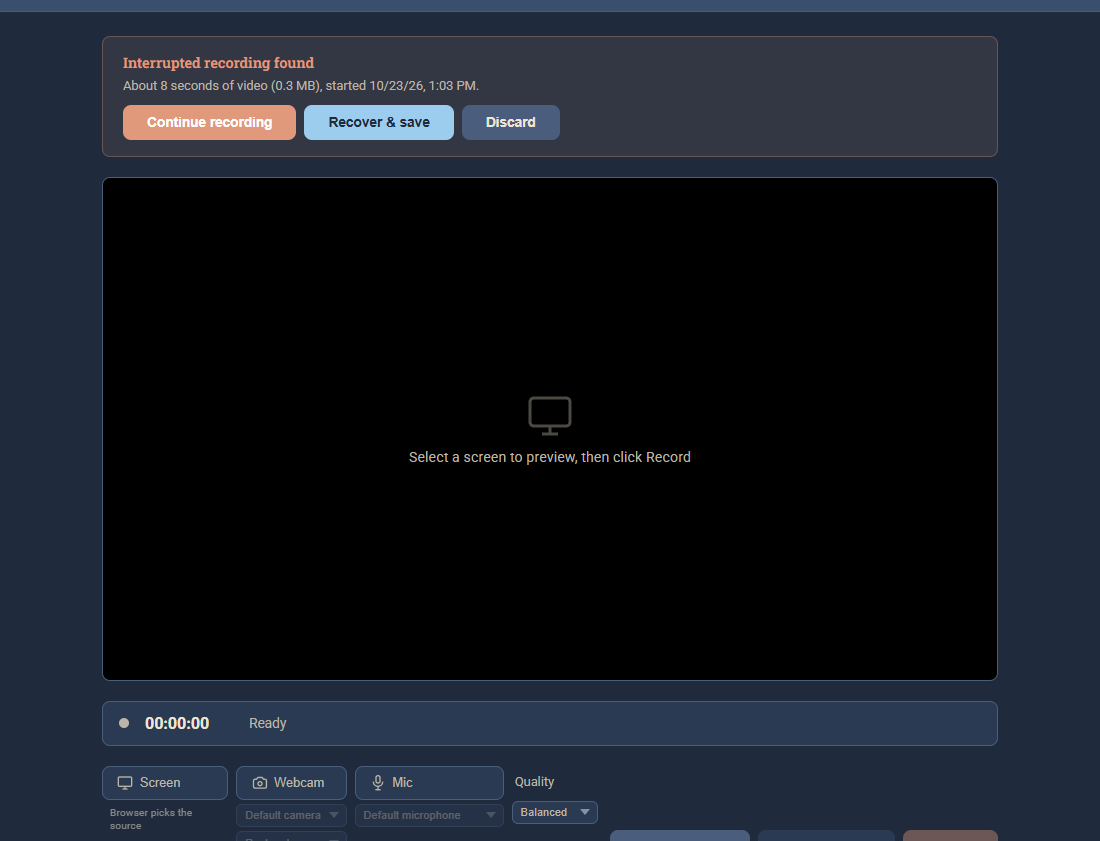
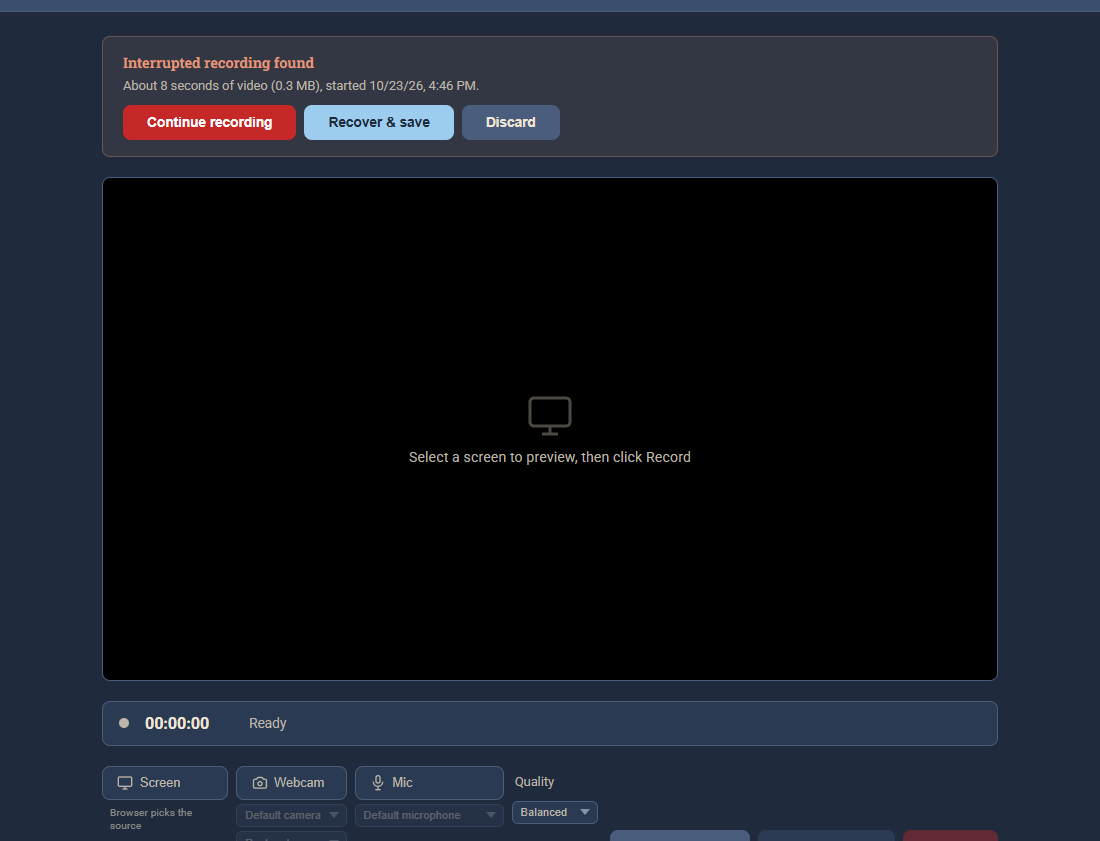
feat (v1.40, #43 stage 2): Replace a part - record into its position, Cancel before Record, Undo replacement on the review page; Record red

Changed region(s): [[0.0927, 0.1237, 0.2782, 0.1855], [0.8036, 0.9893, 0.9273, 1.0]]

diff --git a/index.html b/index.html
@@ -31,6 +31,11 @@
     --green: #9CCDEE;         /* Sky: on, selected, save */
     --green-dim: #6F84A3;     /* Light slate: Sky borders */
     --yellow: #E0997A;        /* paused / kept: terracotta on dark */
+    /* Record red (owner, 2026-10-23): the one colour outside the brand palette,
+       because red = record is a convention people already know. Parchment/white
+       text on it is 5.3:1. Used for Record, Resume recording and the live dot only. */
+    --record: #C62828;
+    --record-hover: #D93025;
     --radius: 8px;
   }
 
@@ -169,7 +174,7 @@
   }
 
   .status-dot.recording {
-    background: var(--accent);
+    background: var(--record);
     animation: pulse 1.5s ease-in-out infinite;
   }
 
@@ -342,10 +347,10 @@
   }
 
   .btn-record {
-    background: var(--accent);
+    background: var(--record);
     color: white;
   }
-  .btn-record:hover { background: var(--accent-hover); }
+  .btn-record:hover { background: var(--record-hover); }
   .btn-record:disabled {
     opacity: 0.4;
     cursor: not-allowed;
@@ -381,10 +386,10 @@
   }
   /* Paused: resuming is the main action — same red as Record. */
   .btn-pause.resume {
-    background: var(--accent);
+    background: var(--record);
     color: white;
   }
-  .btn-pause.resume:hover { background: var(--accent-hover); }
+  .btn-pause.resume:hover { background: var(--record-hover); }
 
   /* REVIEW #23: paused-only screen swap — same neutral look as its neighbor
      Pause/Resume, since it's part of the same "while paused" control cluster. */
@@ -876,6 +881,16 @@
   </div>
 
   <!-- Stitch fallback (combining segments failed; offer separate files instead) -->
+  <!-- Replacing one part (v1.40, #43 stage 2): shown from the Replace click until the
+       replacement is stopped; Cancel is offered only before Record. -->
+  <div class="download-confirm" id="replaceBanner">
+    <h3 id="replaceTitle">Replacing Part 2</h3>
+    <p>Select a screen if you need to, then click Record. The new recording goes in this part's place; if you pause, the extra parts go there too.</p>
+    <div class="recovery-actions">
+      <button class="primary btn-record" id="btnCancelReplace" onclick="cancelReplacement()">Cancel replacement</button>
+    </div>
+  </div>
+
   <div class="download-confirm" id="stitchFallback">
     <h3>Couldn't join the parts into one video</h3>
     <p>Your video was recorded in parts, and they couldn't be joined. Save each part as its own file instead?</p>
@@ -1103,6 +1118,7 @@
         <h3>Parts of this video</h3>
         <span class="review-parts-total" id="reviewPartsTotal"></span>
         <button class="btn-restore-parts" id="btnRestoreParts" onclick="reviewRestoreParts()" style="display:none;">Restore all parts</button>
+        <button class="btn-restore-parts" id="btnUndoReplacement" onclick="reviewUndoReplacement()" style="display:none;">Undo replacement</button>
       </div>
       <div class="review-parts-list" id="reviewPartsList" role="list"></div>
     </div>
@@ -1132,7 +1148,7 @@
 
 <footer>
   <div>Click "Select Screen" to choose which screen, window, or tab to record. Your browser will show a popup — this is a required security step the app cannot bypass.</div>
-  <div style="margin-top: 0.5rem;">DidaRec <span id="appVersion">v1.39</span> by DidaWorks &middot; Open source &middot; MIT License &middot; No account, no server, no watermark, no time limits</div>
+  <div style="margin-top: 0.5rem;">DidaRec <span id="appVersion">v1.40</span> by DidaWorks &middot; Open source &middot; MIT License &middot; No account, no server, no watermark, no time limits</div>
 </footer>
 
 <script>
@@ -1158,6 +1174,7 @@ const state = {
   partMimeType: null,       // the recording's mimeType, reused by every part
   partChunkBase: 0,         // chunks stored by the parts before the current one (for the counter)
   partStartPromise: null,   // a Resume's startRecorderPart() in flight
+  replace: null,            // v1.40 (#43 stage 2): { index, oldPart, before, after, chain } while recording a replacement for one part
   micMuted: false,          // REVIEW #34: mic muted mid-recording (while paused); sources.mic stays true
   cameraStream: null,
   audioContext: null,
@@ -4922,6 +4939,7 @@ async function startRecording() {
     // The "Recording kept — not saved yet" banner's footage is now part of
     // this recording's chain; it will be saved with it.
     if (recoveryKeptMode) document.getElementById('recoveryBanner').classList.remove('visible');
+    updateReplaceBanner(); // v1.40: the strip stays as a reminder, Cancel goes away
     updateChangeScreenVisibility(); // reserves Change screen's slot from the first frame
     updateToggleUI();
     updateStatus('recording', 'Recording');
@@ -5314,12 +5332,27 @@ async function finalizeRecording() {
       return;
     }
 
+    // v1.40: a replacement just ended — the replaced part leaves the video
+    // (soft-deleted, like a deleted part; a save sweeps it, Undo replacement
+    // brings it back) and the parts after it follow the new recording.
+    const rep = state.replace;
+    if (rep) await setSessionDiscarded(rep.oldPart.sessionId, true);
+
     if (stopMode === 'review') {
       // Stop & review: do NOT save, complete, or delete anything — the
       // session stays completed:false so a crash during review still hits
       // the recovery banner. openReviewPane assembles the scrub preview
-      // from priorSegments + the just-stopped session, in order.
-      await openReviewPane([...state.priorSegments, { sessionId: state.sessionId, mimeType: sessionMimeType }]);
+      // from priorSegments + the just-stopped session (+ a replacement's
+      // trailing parts), in order.
+      const current = { sessionId: state.sessionId, mimeType: sessionMimeType };
+      await openReviewPane([...state.priorSegments, current, ...replaceAfterParts()]);
+      if (rep && reviewState.active) {
+        reviewState.replacement = {
+          index: rep.index, oldPart: rep.oldPart, before: rep.before, after: rep.after,
+          newIds: [...state.priorSegments.slice(rep.before.length).map((s) => s.sessionId), current.sessionId],
+        };
+        renderReviewParts();
+      }
       return;
     }
 
@@ -5350,6 +5383,7 @@ async function finalizeRecording() {
       keepAfter = true;
     }
   } finally {
+    state.replace = null; // a replacement is over once its recording stopped, whatever happened to the save
     // v1.37: Stop & review keeps the screen and webcam, so Back to recorder
     // (and a re-record cut) can go straight to Record.
     cleanupStreams({ keepSources: stopMode === 'review' });
@@ -5365,8 +5399,14 @@ async function finalizeRecording() {
 // between a stop and that click because startRecording refuses to run while a
 // save is pending. Returns true when the save was cancelled, so the caller can
 // offer the video as a kept recording (v1.32).
+// v1.40: the parts that come AFTER a replacement's position (empty unless a
+// replacement is being recorded). Every chain built at a stop appends them.
+function replaceAfterParts() {
+  return state.replace ? state.replace.after : [];
+}
+
 async function saveStoppedRecording(sessionMimeType) {
-  if (state.priorSegments.length > 0) {
+  if (state.priorSegments.length > 0 || replaceAfterParts().length > 0) {
     // Multi-segment: streamed stitch of prior segments + current into one
     // file (Known Limitation #1, closed in v1.13 — this used to buffer
     // every segment; see saveSessionsStreamedStitch).
@@ -5476,15 +5516,20 @@ async function stitchAndSave(currentMimeType) {
     for (const seg of state.priorSegments) {
       if ((await sessionChunkStats(seg.sessionId)).count > 0) priorsWithData.push(seg);
     }
+    // v1.40: a replacement's trailing parts come after the new recording.
+    const afterWithData = [];
+    for (const seg of replaceAfterParts()) {
+      if ((await sessionChunkStats(seg.sessionId)).count > 0) afterWithData.push(seg);
+    }
 
     let result;
-    if (priorsWithData.length === 0) {
-      // Only the current recording has data — stream it directly.
+    if (priorsWithData.length === 0 && afterWithData.length === 0) {
       result = await saveFile({ kind: 'session', sessionId: state.sessionId, mimeType: currentMimeType });
     } else {
       const currentHasData = (await sessionChunkStats(state.sessionId)).count > 0;
       const segments = priorsWithData.slice();
       if (currentHasData) segments.push({ sessionId: state.sessionId, mimeType: currentMimeType });
+      for (const seg of afterWithData) segments.push(seg);
 
       result = segments.length === 1
         ? await saveFile({ kind: 'session', sessionId: segments[0].sessionId, mimeType: segments[0].mimeType })
@@ -5502,11 +5547,11 @@ async function stitchAndSave(currentMimeType) {
         await deleteSession(seg.sessionId);
       }
       await deleteSession(state.sessionId);
-      await deleteDiscardedSessions(); // sweep any soft-deleted siblings from an earlier review-pane cut
+      for (const seg of replaceAfterParts()) await deleteSession(seg.sessionId);
+      await deleteDiscardedSessions(); // sweep any soft-deleted siblings from an earlier review-pane cut (and a replaced part)
       state.priorSegments = [];
     } else if (result === 'downloaded') {
-      // Keep every session until the user confirms the download arrived.
-      offerDownloadConfirm([...state.priorSegments.map(s => s.sessionId), state.sessionId], 1);
+      offerDownloadConfirm([...state.priorSegments.map(s => s.sessionId), state.sessionId, ...replaceAfterParts().map(s => s.sessionId)], 1);
     } else {
       showError(SAVE_CANCELLED_KEPT);
       return true; // cancelled — the caller offers it as a kept recording
@@ -5517,7 +5562,7 @@ async function stitchAndSave(currentMimeType) {
     // caller offer the "Save recording" button instead of separate parts.
     if (isSaveDialogBlocked(err)) throw err;
     console.error('Stitching failed:', err);
-    const segments = [...state.priorSegments, { sessionId: state.sessionId, mimeType: currentMimeType }];
+    const segments = [...state.priorSegments, { sessionId: state.sessionId, mimeType: currentMimeType }, ...replaceAfterParts()];
     offerStitchFallback(segments);
   }
 }
@@ -6104,7 +6149,10 @@ function resetUI() {
   // syncs screen mode, the placeholder text, the toggles and Record).
   refreshIdlePreview();
   // Show segment indicator if continuing a recording
-  if (state.priorSegments.length > 0) {
+  updateReplaceBanner();
+  if (state.replace) {
+    updateStatus('idle', `Recording a replacement for Part ${state.replace.index + 1}. Click Record when you're ready.`);
+  } else if (state.priorSegments.length > 0) {
     updateStatus('idle', KEPT_STATUS);
   } else {
     updateStatus('idle', 'Ready');
@@ -7307,11 +7355,12 @@ function reviewPartsModel() {
   const rows = segs.map((seg, i) => {
     const ms = known ? reviewDurationMs([scans[i]]) : null;
     const name = 'Part ' + (i + 1);
+    const isNew = !!(reviewState.replacement && reviewState.replacement.newIds.includes(seg.sessionId));
     return {
       index: i,
       sessionId: seg.sessionId,
       name,
-      label: ms === null ? name : name + ' — ' + formatKeptMinSec(ms),
+      label: (ms === null ? name : name + ' — ' + formatKeptMinSec(ms)) + (isNew ? ' (replacement)' : ''),
       newest: n > 1 && i === n - 1,
       playing: reviewState.playingPart === i,
       canDelete: n > 1,
@@ -7323,6 +7372,7 @@ function reviewPartsModel() {
     show: n >= 2 || reviewState.removedIds.length > 0,
     totalLabel: totalMs === null ? '' : 'Whole video — ' + formatKeptMinSec(totalMs),
     canRestore: reviewState.removedIds.length > 0,
+    canUndoReplacement: !!reviewState.replacement,
     playingName: reviewState.playingPart != null && rows[reviewState.playingPart] ? rows[reviewState.playingPart].name : null,
     busy: !!(reviewState.partsBusy || reviewState.saving),
   };
@@ -7334,6 +7384,8 @@ function renderReviewParts() {
   document.getElementById('reviewPartsTotal').textContent = model.totalLabel;
   document.getElementById('btnRestoreParts').style.display = model.canRestore ? '' : 'none';
   document.getElementById('btnRestoreParts').disabled = model.busy;
+  document.getElementById('btnUndoReplacement').style.display = model.canUndoReplacement ? '' : 'none';
+  document.getElementById('btnUndoReplacement').disabled = model.busy;
   const dis = model.busy ? ' disabled' : '';
   document.getElementById('reviewPartsList').innerHTML = model.rows.map((r) =>
     `<div class="review-part-row${r.playing ? ' playing' : ''}" role="listitem">` +
@@ -7341,6 +7393,7 @@ function renderReviewParts() {
       (r.newest ? '<span class="review-part-badge">Newest</span>' : '') +
       '<span class="review-part-actions">' +
         `<button class="btn-part" onclick="reviewPlayPart(${r.index})" aria-label="Play ${r.name} on its own"${dis}>${r.playing ? 'Playing' : 'Play'}</button>` +
+        `<button class="btn-part" onclick="reviewReplacePart(${r.index})" aria-label="Replace ${r.name} with a new recording"${dis}>Replace</button>` +
         (r.canDelete ? `<button class="btn-part danger" onclick="requestReviewPartRemove(${r.index})" aria-label="Delete ${r.name}"${dis}>Delete</button>` : '') +
       '</span>' +
     '</div>').join('');
@@ -7387,6 +7440,8 @@ function syncReviewCutControls() {
 function resetReviewPartsState() {
   reviewState.entrySegments = [];
   reviewState.removedIds = [];
+  reviewState.replacement = null; // v1.40: an Undo replacement offer lives only in the pane it opened in
+  document.getElementById('btnUndoReplacement').style.display = 'none';
   reviewState.playingPart = null;
   reviewState.pendingRemoveId = null;
   reviewState.partsBusy = false;
@@ -7479,6 +7534,103 @@ function reviewShowWhole() {
   renderReviewParts();
   syncReviewCutControls();
   onReviewVideoTimeUpdate();
+}
+
+// ============================================================
+// Replace a part (v1.40, REVIEW #43 stage 2)
+//
+// "Replace" on a part's row closes the review and puts the recorder into
+// replacing mode: the parts BEFORE position k become priorSegments (the
+// ordinary "kept footage" the next recording continues), the parts AFTER it
+// are remembered in state.replace.after and appended by every chain built
+// at the stop (review, save, stitch fallback). The recording itself is an
+// ordinary recording — pauses make parts, all of which slot in at k. When
+// it stops, the replaced part is soft-deleted (same flag as a deleted
+// part) and the review page that opens offers one Undo replacement.
+// Documented limit: a crash mid-replacement recovers the new recording as
+// the LAST part (recovery orders parts by when they were recorded).
+// ============================================================
+function reviewReplacePart(index) {
+  if (reviewPartsBusyNote() || reviewInPartMode()) return;
+  const chain = reviewState.segments.slice();
+  const part = chain[index];
+  if (!part) return;
+  state.replace = { index, oldPart: part, before: chain.slice(0, index), after: chain.slice(index + 1), chain };
+  state.priorSegments = chain.slice(0, index);
+  reviewState.undo = null;
+  closeReviewPane();
+  resetUI();
+}
+
+function updateReplaceBanner() {
+  const strip = document.getElementById('replaceBanner');
+  const on = !!state.replace;
+  strip.classList.toggle('visible', on);
+  if (on) {
+    document.getElementById('replaceTitle').textContent = `Replacing Part ${state.replace.index + 1}`;
+    document.getElementById('btnCancelReplace').style.display = state.recording ? 'none' : '';
+  }
+}
+
+// Before Record only: back to the review page with nothing changed.
+async function cancelReplacement() {
+  const rep = state.replace;
+  if (!rep || state.recording) return;
+  state.replace = null;
+  state.priorSegments = [];
+  updateReplaceBanner();
+  showError('');
+  await openReviewPane(rep.chain);
+}
+
+// Undo replacement: the old part comes back where it was and the new
+// recording leaves (soft-deleted, swept by the next save). Same rebuild →
+// flag → commit order as delete and restore; afterwards this chain is the
+// pane's new baseline (Restore all parts returns to it, not to the
+// replacement).
+async function reviewUndoReplacement() {
+  const r = reviewState.replacement;
+  if (!r || reviewState.partsBusy || reviewState.saving) return;
+  const paneChain = reviewState.segments;
+  const chain = [...r.before, r.oldPart, ...r.after];
+  const prev = { scans: reviewState.scans, scansOk: reviewState.scansOk };
+  const samePane = () => reviewState.active && reviewState.segments === paneChain;
+  const flagged = [];
+  let unflaggedOld = false;
+  const putBack = async () => {
+    if (unflaggedOld) { try { await setSessionDiscarded(r.oldPart.sessionId, true); } catch (e) { console.error(e); } }
+    for (const id of flagged) { try { await setSessionDiscarded(id, false); } catch (e) { console.error(e); } }
+  };
+  reviewState.partsBusy = true;
+  renderReviewParts();
+  syncReviewCutControls();
+  reviewSetStatus('Putting the old part back…');
+  try {
+    const blob = await assembleReviewPreview(chain);
+    if (!samePane()) return;
+    await setSessionDiscarded(r.oldPart.sessionId, false); unflaggedOld = true;
+    for (const id of r.newIds) { await setSessionDiscarded(id, true); flagged.push(id); }
+    if (!samePane()) { await putBack(); return; }
+    reviewState.replacement = null;
+    reviewState.entrySegments = chain.slice();
+    reviewState.removedIds = [];
+    commitReviewChain(chain, blob);
+    reviewSetStatus(`Part ${r.index + 1} is back as it was. The replacement recording was removed.` + (reviewState.scansOk ? '' : ' ' + REVIEW_SCAN_UNAVAILABLE));
+  } catch (err) {
+    console.error('Undo replacement failed:', err);
+    if (samePane()) {
+      reviewState.scans = prev.scans;
+      reviewState.scansOk = prev.scansOk;
+      await putBack();
+      reviewSetStatus("Couldn't undo the replacement. Your video is unchanged — try again.");
+    }
+  } finally {
+    if (reviewState.active) {
+      reviewState.partsBusy = false;
+      renderReviewParts();
+      syncReviewCutControls();
+    }
+  }
 }
 
 function showReviewPartConfirm(message, buttonLabel) {

diff --git a/guide.html b/guide.html
@@ -185,10 +185,11 @@
   <ul>
     <li><strong>Watch one part by itself.</strong> Click <b class="btn">Play</b> on its row. The player shows only that part, and a bar above it says <strong>Playing Part 2 on its own</strong>. Click <b class="btn">Back to the whole video</b> to go back. While you are watching one part, the <b class="btn">Re-record from&hellip;</b> buttons are switched off, because their times belong to the whole video.</li>
     <li><strong>Delete a part you don't want.</strong> Click <b class="btn">Delete</b> on its row. A box asks you to confirm. Click <b class="btn">Delete Part 2</b> to go ahead, or <b class="btn">Keep it</b> to change your mind. The player and the total update at once, and the parts after it move up one number. The last part left can't be deleted. To throw everything away, use <b class="btn">Discard recording</b>.</li>
+    <li><strong>Record a part again.</strong> Click <b class="btn">Replace</b> on its row. You go back to the recorder with a note saying which part you are replacing; click <b class="btn">Record</b>, record the new version (any length; pausing is fine), then <b class="btn">Stop &amp; review</b>. The new recording sits exactly where the old part was, and <b class="btn">Undo replacement</b> brings the old one back if you change your mind. Before you click Record, <b class="btn">Cancel replacement</b> takes you back with nothing changed.</li>
     <li><strong>Put the parts back.</strong> After you delete a part, <b class="btn">Restore all parts</b> appears. One click brings back every part you deleted, exactly as your video was when you opened this review screen.</li>
   </ul>
   <div class="note">
-    <p><strong>Good to know.</strong> <b class="btn">Save as is</b> always saves the whole video, never only the part you are playing. A deleted part can be brought back only while you stay on the review screen. Once you click <b class="btn">Back to recorder</b>, re-record, or save, it is gone for good.</p>
+    <p><strong>Good to know.</strong> If your browser closes while you are recording a replacement, the recovery box still has everything, but the new recording comes back as the last part rather than in the old part's place. <b class="btn">Save as is</b> always saves the whole video, never only the part you are playing. A deleted part can be brought back only while you stay on the review screen. Once you click <b class="btn">Back to recorder</b>, re-record, or save, it is gone for good.</p>
   </div>
 
   <h3>Other choices on the review screen</h3>
@@ -265,7 +266,7 @@
   </dl>
 
   <footer>
-    <p>This guide matches DidaRec v1.39. <a class="back-link" href="./">Back to DidaRec</a></p>
+    <p>This guide matches DidaRec v1.40. <a class="back-link" href="./">Back to DidaRec</a></p>
   </footer>
 </main>
 </body>
